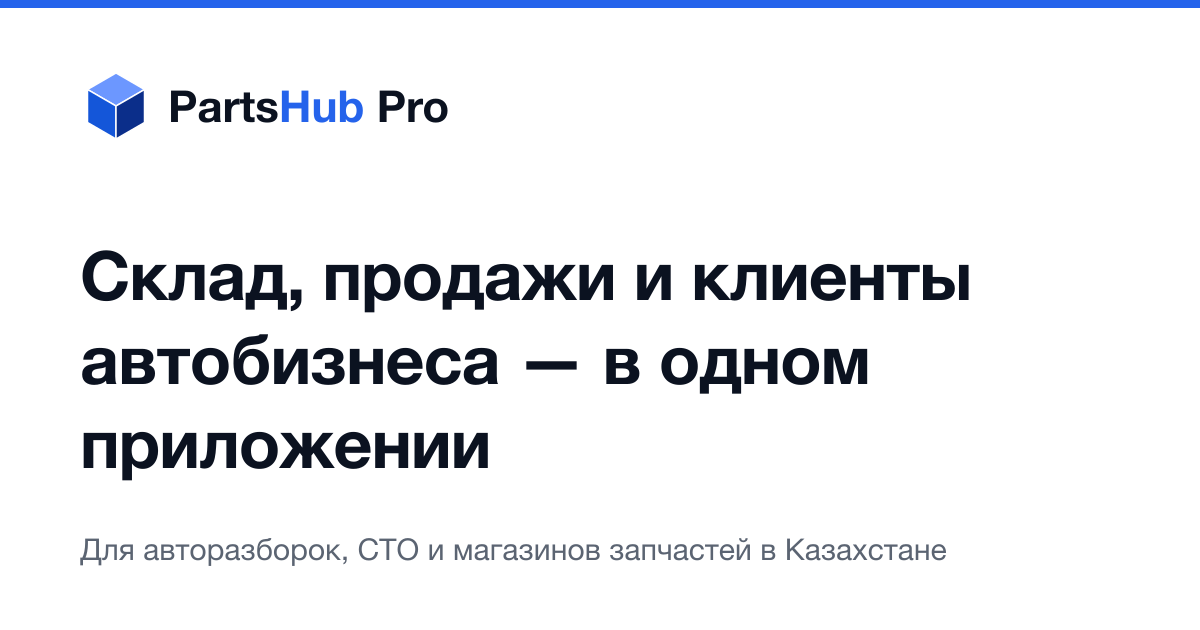
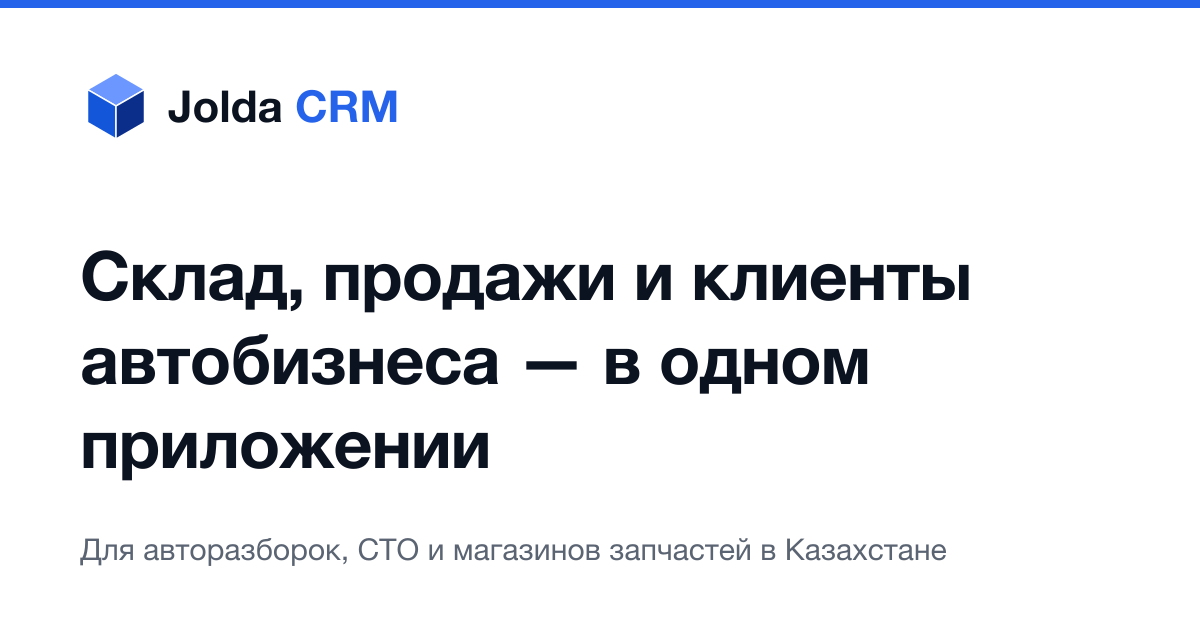
Переименование в Jolda CRM (лендинг и приложение); политика конфиденциальности сайта под ТОО «Darasoft»

Changed region(s): [[0.1233, 0.1206, 0.37, 0.2111]]

diff --git a/landing/public/privacy-policy.html b/landing/public/privacy-policy.html
@@ -3,7 +3,8 @@
 <head>
     <meta charset="UTF-8">
     <meta name="viewport" content="width=device-width, initial-scale=1.0">
-    <title>Политика конфиденциальности — AutoHub B2B</title>
+    <meta name="robots" content="index, follow">
+    <title>Политика конфиденциальности — Jolda CRM</title>
     <style>
         * { margin: 0; padding: 0; box-sizing: border-box; }
         body { font-family: -apple-system, BlinkMacSystemFont, 'Segoe UI', Roboto, sans-serif; line-height: 1.7; color: #333; background: #f8f9fa; }
@@ -19,79 +20,60 @@
 <body>
 <div class="container">
     <h1>Политика конфиденциальности</h1>
-    <p class="date">Последнее обновление: 10 февраля 2026</p>
+    <p class="date">Последнее обновление: 16 октября 2026</p>
 
     <h2>1. Общие положения</h2>
-    <p>Настоящая Политика конфиденциальности описывает, каким образом ТОО «AutoHub» осуществляет сбор, использование, хранение и защиту персональных данных пользователей мобильного приложения AutoHub B2B.</p>
-    <p>Используя Приложение, вы подтверждаете, что ознакомились с данной Политикой и даёте согласие на обработку ваших персональных данных в описанном порядке.</p>
+    <p>Настоящая Политика описывает, каким образом ТОО «Darasoft» (далее — «Компания», «мы») обрабатывает персональные данные посетителей сайта Jolda CRM и пользователей приложения Jolda CRM (далее — «Приложение»).</p>
+    <p>Отправляя форму на сайте, вы подтверждаете, что ознакомились с Политикой и даёте согласие на обработку указанных данных в описанном порядке.</p>
 
-    <h2>2. Какие данные мы собираем</h2>
+    <h2>2. Данные, которые мы получаем с сайта</h2>
+    <p>Через форму «Запросить демо» мы получаем только то, что вы вводите сами:</p>
     <ul>
-        <li><strong>Регистрационные данные:</strong> имя, email, номер телефона, название организации, ИИН/БИН.</li>
-        <li><strong>Данные профиля:</strong> роль пользователя, тип бизнеса.</li>
-        <li><strong>Данные об использовании:</strong> информация о действиях в приложении.</li>
-        <li><strong>Данные устройства:</strong> тип ОС, версия приложения — для стабильной работы.</li>
-        <li><strong>Камера:</strong> для сканирования QR-кодов. Изображения не сохраняются и не передаются на сервер.</li>
-        <li><strong>Bluetooth:</strong> для подключения к термопринтерам. Данные об устройствах не передаются третьим лицам.</li>
+        <li>имя;</li>
+        <li>номер телефона;</li>
+        <li>город;</li>
+        <li>тип бизнеса;</li>
+        <li>комментарий (если вы его оставили).</li>
+    </ul>
+    <p>Сайт не использует файлы cookie, сторонние аналитические сервисы и рекламные пиксели.</p>
+
+    <h2>3. Цели обработки</h2>
+    <ul>
+        <li>связаться с вами по поводу демонстрации Jolda CRM;</li>
+        <li>ответить на ваши вопросы о Приложении;</li>
+        <li>выполнение требований законодательства Республики Казахстан.</li>
     </ul>
 
-    <h2>3. Цели обработки данных</h2>
-    <ul>
-        <li>Предоставление и улучшение функционала приложения.</li>
-        <li>Авторизация и аутентификация пользователей.</li>
-        <li>Управление складом, заказами и клиентами.</li>
-        <li>Синхронизация данных между устройствами.</li>
-        <li>Формирование аналитических отчётов.</li>
-        <li>Техническая поддержка.</li>
-        <li>Выполнение требований законодательства РК.</li>
-    </ul>
+    <h2>4. Передача и хранение</h2>
+    <p>Заявка пересылается сотрудникам Компании через мессенджер Telegram (закрытый чат Компании), поэтому данные из формы обрабатываются в инфраструктуре Telegram. Мы не продаём данные и не передаём их рекламным сетям. Данные могут быть переданы по законному запросу уполномоченных органов.</p>
+    <p>Данные хранятся до достижения цели обработки или до отзыва вами согласия. Чтобы отозвать согласие или потребовать удалить данные, свяжитесь с нами по контактам ниже.</p>
 
-    <h2>4. Хранение и защита данных</h2>
-    <ul>
-        <li>Передача данных шифруется по протоколу HTTPS/TLS.</li>
-        <li>Пароли хранятся в хэшированном виде (bcrypt).</li>
-        <li>JWT-токены хранятся в защищённом хранилище устройства.</li>
-        <li>Локальная БД (SQLite) хранится только на устройстве пользователя.</li>
-        <li>Доступ к серверным базам данных ограничен и контролируется.</li>
-    </ul>
-    <p>Персональные данные хранятся в течение срока действия учётной записи. При удалении аккаунта данные удаляются в течение 30 дней.</p>
+    <h2>5. Пользователи Приложения</h2>
+    <p>Данные, которые обрабатываются при работе в самом Приложении (регистрация, склад, заказы, клиенты), описаны в Политике конфиденциальности внутри Приложения (раздел «Настройки»).</p>
 
-    <h2>5. Передача данных третьим лицам</h2>
-    <p>Мы не продаём и не передаём ваши данные третьим лицам, за исключением:</p>
-    <ul>
-        <li><strong>Firebase (Google)</strong> — аутентификация. <a href="https://firebase.google.com/support/privacy">Политика Firebase</a></li>
-        <li><strong>По требованию закона</strong> — при законном запросе от уполномоченных органов.</li>
-    </ul>
-    <p>Мы не используем рекламные SDK и не передаём данные рекламным сетям.</p>
-
-    <h2>6. Файлы cookie и аналитика</h2>
-    <p>Приложение не использует файлы cookie. Мы не используем сторонние аналитические сервисы для отслеживания пользователей.</p>
-
-    <h2>7. Права пользователя</h2>
-    <p>Вы имеете право:</p>
+    <h2>6. Права пользователя</h2>
     <ul>
         <li>Получить информацию о хранимых персональных данных.</li>
         <li>Запросить исправление неточных данных.</li>
-        <li>Запросить удаление учётной записи и связанных данных.</li>
-        <li>Отозвать согласие на обработку данных.</li>
-        <li>Подать жалобу в уполномоченный орган.</li>
+        <li>Запросить удаление данных.</li>
+        <li>Отозвать согласие на обработку.</li>
+        <li>Подать жалобу в уполномоченный орган по защите персональных данных.</li>
     </ul>
-    <p>Для реализации ваших прав: <a href="mailto:eracode11@gmail.com">eracode11@gmail.com</a></p>
 
-    <h2>8. Данные несовершеннолетних</h2>
-    <p>Приложение предназначено для лиц старше 18 лет (B2B-платформа). Мы сознательно не собираем данные несовершеннолетних.</p>
+    <h2>7. Данные несовершеннолетних</h2>
+    <p>Сайт и Приложение предназначены для лиц старше 18 лет (B2B-платформа). Мы сознательно не собираем данные несовершеннолетних.</p>
 
-    <h2>9. Изменения в Политике</h2>
-    <p>Мы можем обновлять настоящую Политику. О существенных изменениях мы уведомим через приложение.</p>
+    <h2>8. Изменения в Политике</h2>
+    <p>Мы можем обновлять настоящую Политику; актуальная редакция всегда доступна на этой странице.</p>
 
-    <h2>10. Контакты</h2>
-    <p>ТОО «AutoHub»<br>
+    <h2>9. Контакты</h2>
+    <p>ТОО «Darasoft»<br>
     Email: <a href="mailto:eracode11@gmail.com">eracode11@gmail.com</a><br>
     Telegram: <a href="https://t.me/erasoft1">@erasoft1</a><br>
     Казахстан</p>
 
     <div class="footer">
-        <p>© 2026 ТОО «AutoHub». Все права защищены.</p>
+        <p>© 2026 ТОО «Darasoft». Все права защищены.</p>
     </div>
 </div>
 </body>

diff --git a/landing/src/app/layout.tsx b/landing/src/app/layout.tsx
@@ -16,7 +16,7 @@ const unbounded = Unbounded({
   variable: '--font-display',
 });
 
-const title = 'PartsHub Pro — учёт и продажи для авторазборок и СТО в Казахстане';
+const title = 'Jolda CRM — учёт и продажи для авторазборок и СТО в Казахстане';
 const description =
   'Склад, продажи, клиенты, запись и заказ-наряды в одном приложении для авторазборок, СТО и магазинов запчастей. Работает без интернета. Запросите демо.';
 
@@ -24,7 +24,7 @@ export const metadata: Metadata = {
   metadataBase: siteUrl ? new URL(siteUrl) : undefined,
   title,
   description,
-  applicationName: 'PartsHub Pro',
+  applicationName: 'Jolda CRM',
   keywords: [
     'программа для авторазборки',
     'учёт склада автозапчастей',
@@ -35,16 +35,16 @@ export const metadata: Metadata = {
   alternates: { canonical: '/' },
   robots: siteUrl ? { index: true, follow: true } : { index: false, follow: false },
   openGraph: {
-    title: 'PartsHub Pro — учёт и продажи для автобизнеса',
+    title: 'Jolda CRM — учёт и продажи для автобизнеса',
     description: 'Склад, продажи, клиенты, запись и заказ-наряды в одном приложении. Запросите демо.',
     url: '/',
-    siteName: 'PartsHub Pro',
+    siteName: 'Jolda CRM',
     locale: 'ru_KZ',
     type: 'website',
   },
   twitter: {
     card: 'summary_large_image',
-    title: 'PartsHub Pro — учёт и продажи для автобизнеса',
+    title: 'Jolda CRM — учёт и продажи для автобизнеса',
     description: 'Склад, продажи, клиенты, запись и заказ-наряды в одном приложении.',
   },
   formatDetection: { telephone: false },

diff --git a/landing/src/content/site.ts b/landing/src/content/site.ts
@@ -5,7 +5,7 @@
  */
 
 export const brand = {
-  name: 'PartsHub Pro',
+  name: 'Jolda CRM',
   region: 'Казахстан',
 };
 
@@ -19,7 +19,7 @@ export const nav = [
 
 export const hero = {
   title: 'Склад, продажи и клиенты автобизнеса — в одном приложении',
-  lead: 'PartsHub Pro для авторазборок и СТО в Казахстане. Работает на телефоне и компьютере, в том числе без интернета.',
+  lead: 'Jolda CRM для авторазборок и СТО в Казахстане. Работает на телефоне и компьютере, в том числе без интернета.',
   primaryCta: 'Запросить демо',
   secondaryCta: 'Смотреть возможности',
   facts: [
@@ -30,7 +30,7 @@ export const hero = {
 };
 
 export const audience = {
-  title: 'Для кого PartsHub Pro',
+  title: 'Для кого Jolda CRM',
   lead: 'Состав разделов зависит от типа бизнеса: лишнего в меню нет.',
   items: [
     {
@@ -256,7 +256,7 @@ export const faq = [
 
 export const form = {
   title: 'Запросить демо',
-  lead: 'Оставьте заявку, и мы покажем PartsHub Pro на примере вашего бизнеса.',
+  lead: 'Оставьте заявку, и мы покажем Jolda CRM на примере вашего бизнеса.',
   points: [
     'Покажем разделы под ваш тип бизнеса',
     'Обсудим перенос склада из Excel',

diff --git a/autohub_b2b/lib/screens/legal/terms_of_use_screen.dart b/autohub_b2b/lib/screens/legal/terms_of_use_screen.dart
@@ -66,13 +66,13 @@ const _sections = <(String, String)>[
     'Настоящее Пользовательское соглашение (далее — «Соглашение») регулирует '
         'отношения между ТОО «Darasoft» (далее — «Компания», «мы») и пользователем '
         '(далее — «Пользователь», «вы») при использовании мобильного приложения '
-        'PartsHub Pro (далее — «Приложение»).\n\n'
+        'Jolda CRM (далее — «Приложение»).\n\n'
         'Регистрация в Приложении и его дальнейшее использование означают полное '
         'и безоговорочное принятие условий настоящего Соглашения.',
   ),
   (
     '2. Описание Приложения',
-    'PartsHub Pro — это B2B-платформа для автобизнеса (авторазборы, автосервисы, '
+    'Jolda CRM — это B2B-платформа для автобизнеса (авторазборы, автосервисы, '
         'автомойки), предоставляющая следующие функции:\n\n'
         '• Управление складом (WMS) — учёт запчастей, поиск, категории.\n'
         '• Продажи и заказы — управление заказами и их статусами.\n'

diff --git a/autohub_b2b/lib/main.dart b/autohub_b2b/lib/main.dart
@@ -80,7 +80,7 @@ class AutoHubApp extends StatelessWidget {
       ],
       child: MaterialApp(
         navigatorKey: rootNavigatorKey,
-        title: 'PartsHub Pro',
+        title: 'Jolda CRM',
         debugShowCheckedModeBanner: false,
         theme: AppTheme.lightTheme,
         builder: (context, child) {
@@ -448,9 +448,9 @@ class _MainScreenState extends State<MainScreen> {
                                   Text.rich(
                                     TextSpan(
                                       children: [
-                                        TextSpan(text: 'Parts'),
+                                        TextSpan(text: 'Jolda '),
                                         TextSpan(
-                                          text: 'Hub',
+                                          text: 'CRM',
                                           style: TextStyle(color: AppTheme.primaryColor),
                                         ),
                                       ],
@@ -725,9 +725,9 @@ class _MainScreenState extends State<MainScreen> {
                     Text.rich(
                       TextSpan(
                         children: [
-                          TextSpan(text: 'Parts'),
+                          TextSpan(text: 'Jolda '),
                           TextSpan(
-                            text: 'Hub',
+                            text: 'CRM',
                             style: TextStyle(color: AppTheme.primaryColor),
                           ),
                         ],

diff --git a/autohub_b2b/lib/screens/legal/privacy_policy_screen.dart b/autohub_b2b/lib/screens/legal/privacy_policy_screen.dart
@@ -66,7 +66,7 @@ const _sections = <(String, String)>[
     'Настоящая Политика конфиденциальности (далее — «Политика») описывает, '
         'каким образом ТОО «Darasoft» (далее — «Компания», «мы») осуществляет сбор, '
         'использование, хранение и защиту персональных данных пользователей мобильного '
-        'приложения PartsHub Pro (далее — «Приложение»).\n\n'
+        'приложения Jolda CRM (далее — «Приложение»).\n\n'
         'Используя Приложение, вы подтверждаете, что ознакомились с данной Политикой '
         'и даёте согласие на обработку ваших персональных данных в описанном порядке.',
   ),

diff --git a/landing/src/app/page.tsx b/landing/src/app/page.tsx
@@ -58,14 +58,14 @@ export default function Home() {
               <PhoneFrame
                 className="phone-a"
                 name="parts-dashboard"
-                alt="Дашборд PartsHub Pro: поступило за месяц, продано, долги клиентов, график продаж"
+                alt="Дашборд Jolda CRM: поступило за месяц, продано, долги клиентов, график продаж"
                 priority
                 sizes="(max-width: 960px) 250px, 252px"
               />
               <PhoneFrame
                 className="phone-b"
                 name="parts-warehouse"
-                alt="Экран «Товары» в PartsHub Pro"
+                alt="Экран «Товары» в Jolda CRM"
                 priority
                 sizes="(max-width: 960px) 250px, 252px"
               />

diff --git a/autohub_b2b/lib/models/receipt_document_model.dart b/autohub_b2b/lib/models/receipt_document_model.dart
@@ -56,7 +56,7 @@ class ReceiptDocumentData {
   static ReceiptDocumentData sample() {
     final now = DateTime.now();
     return ReceiptDocumentData(
-      companyName: 'PartsHub Pro',
+      companyName: 'Jolda CRM',
       companySubtitle: 'Демонстрационный документ',
       orderNumber: 'DEMO-${now.millisecondsSinceEpoch % 100000}',
       issuedAt: now,
@@ -158,7 +158,7 @@ class ReceiptDocumentData {
 
   /// В документе для клиента — название организации, а не платформы.
   static String _company(String? name) =>
-      name != null && name.trim().isNotEmpty ? name.trim() : 'PartsHub Pro';
+      name != null && name.trim().isNotEmpty ? name.trim() : 'Jolda CRM';
 
   static String? _vehicleInfo(OrderModel order) {
     final vehicle = order.vehicle;

diff --git a/autohub_b2b/lib/services/print/tspl_ble_label_service.dart b/autohub_b2b/lib/services/print/tspl_ble_label_service.dart
@@ -65,8 +65,8 @@ class TsplBleLabelService {
     final int xRight = W - 16;
     int y = 16;
 
-    // --- Заголовок «PartsHub Pro» ---
-    buf.writeln('TEXT $xLeft,$y,"4",0,1,1,"PartsHub Pro"');
+    // --- Заголовок «Jolda CRM» ---
+    buf.writeln('TEXT $xLeft,$y,"4",0,1,1,"Jolda CRM"');
     y += 42;
 
     // Горизонтальная линия.
@@ -145,7 +145,7 @@ class TsplBleLabelService {
     buf.writeln('CLS');
     buf.writeln('CODEPAGE UTF-8');
     buf.writeln('TEXT 16,20,"4",0,1,1,"TSPL TEST"');
-    buf.writeln('TEXT 16,70,"2",0,1,1,"PartsHub BLE OK"');
+    buf.writeln('TEXT 16,70,"2",0,1,1,"Jolda BLE OK"');
     buf.writeln('PRINT 1,1');
     return buf.toString();
   }

diff --git a/landing/src/components/Header.tsx b/landing/src/components/Header.tsx
@@ -10,7 +10,7 @@ export function Header() {
       <div className="container header-inner">
         <a href="#top" className="brand" aria-label={`${brand.name} — наверх`}>
           <img src="/logo.svg" alt="" width={28} height={28} className="brand-mark" />
-          <span className="brand-name">Parts<span>Hub</span> Pro</span>
+          <span className="brand-name">Jolda <span>CRM</span></span>
         </a>
         <nav className="nav" aria-label="Разделы страницы">
           {nav.map((i) => (

diff --git a/autohub_b2b/lib/services/hardware/ble_esc_pos_session.dart b/autohub_b2b/lib/services/hardware/ble_esc_pos_session.dart
@@ -706,7 +706,7 @@ class BleEscPosSession {
     return [
       ...g.reset(),
       ...g.text(
-        'PartsHub Pro',
+        'Jolda CRM',
         styles: const PosStyles(align: PosAlign.center, bold: true),
       ),
       ...g.feed(1),
@@ -739,7 +739,7 @@ class BleEscPosSession {
     return [
       ...g.reset(),
       ...g.text(
-        'PartsHub Pro',
+        'Jolda CRM',
         styles: const PosStyles(align: PosAlign.center, bold: true),
       ),
       ...g.emptyLines(1),

diff --git a/autohub_b2b/lib/screens/auth/register_screen.dart b/autohub_b2b/lib/screens/auth/register_screen.dart
@@ -49,7 +49,7 @@ class _RegisterScreenState extends State<RegisterScreen> {
       builder: (context, state) {
         return AuthScreenShell(
           wideForm: true,
-          subtitle: 'Создайте аккаунт PartsHub Pro',
+          subtitle: 'Создайте аккаунт Jolda CRM',
           errorMessage: _errorMessage,
           leading: AuthIconButton(
             icon: Icons.arrow_back,
